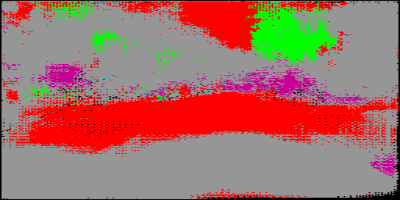
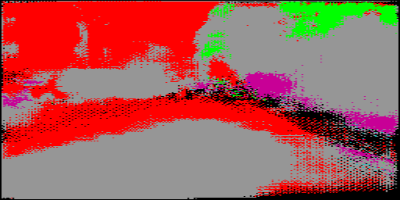
Creating a streamlit api

diff --git a/streamlit_app.py b/streamlit_app.py
@@ -1,0 +1,47 @@
+# streamlit_app.py
+import streamlit as st
+import requests
+import io
+import os
+from PIL import Image
+
+st.title('Image Segmentation')
+
+id = st.slider('Choose an image id', min_value=1, max_value=21)  
+
+if st.button('Submit'):
+    # Make a POST request to the Flask app to process the image
+    response = requests.post(f'http://127.0.0.1:5000/prediction/', data={'file': id})
+
+    # Check if the request was successful
+    if response.status_code == 200:
+        st.success('Image processed successfully!')
+
+        # Display the real image and mask
+        response = requests.get(f'http://127.0.0.1:5000/static/data/predict/img.png')
+        image = Image.open(io.BytesIO(response.content))
+        st.image(image, caption='Real Image', use_column_width=True)
+
+        response = requests.get(f'http://127.0.0.1:5000/static/data/predict/mask.png')
+        image = Image.open(io.BytesIO(response.content))
+        st.image(image, caption='Real Mask', use_column_width=True)
+
+        # Make a POST request to the Flask app to get the prediction
+        response = requests.post(f'http://127.0.0.1:5000/predict/')
+
+        # Check if the request was successful
+        if response.status_code == 200:
+            st.success('Prediction submitted successfully!')
+
+            # Display the predicted mask and combined image
+            response = requests.get(f'http://127.0.0.1:5000/static/data/predict/mask_predicted.png')
+            image = Image.open(io.BytesIO(response.content))
+            st.image(image, caption='Predicted Mask', use_column_width=True)
+
+            response = requests.get(f'http://127.0.0.1:5000/static/data/predict/combined.png')
+            image = Image.open(io.BytesIO(response.content))
+            st.image(image, caption='Combined Image', use_column_width=True)
+        else:
+            st.error('Failed to submit prediction.')
+    else:
+        st.error('Failed to process image.')

diff --git a/flask_app.py b/flask_app.py
@@ -10,6 +10,7 @@ from keras.losses import categorical_crossentropy
 import subprocess
 from keras import backend as K
 
+
 # Nombre des images
 NB_IMAGES = 20
 
